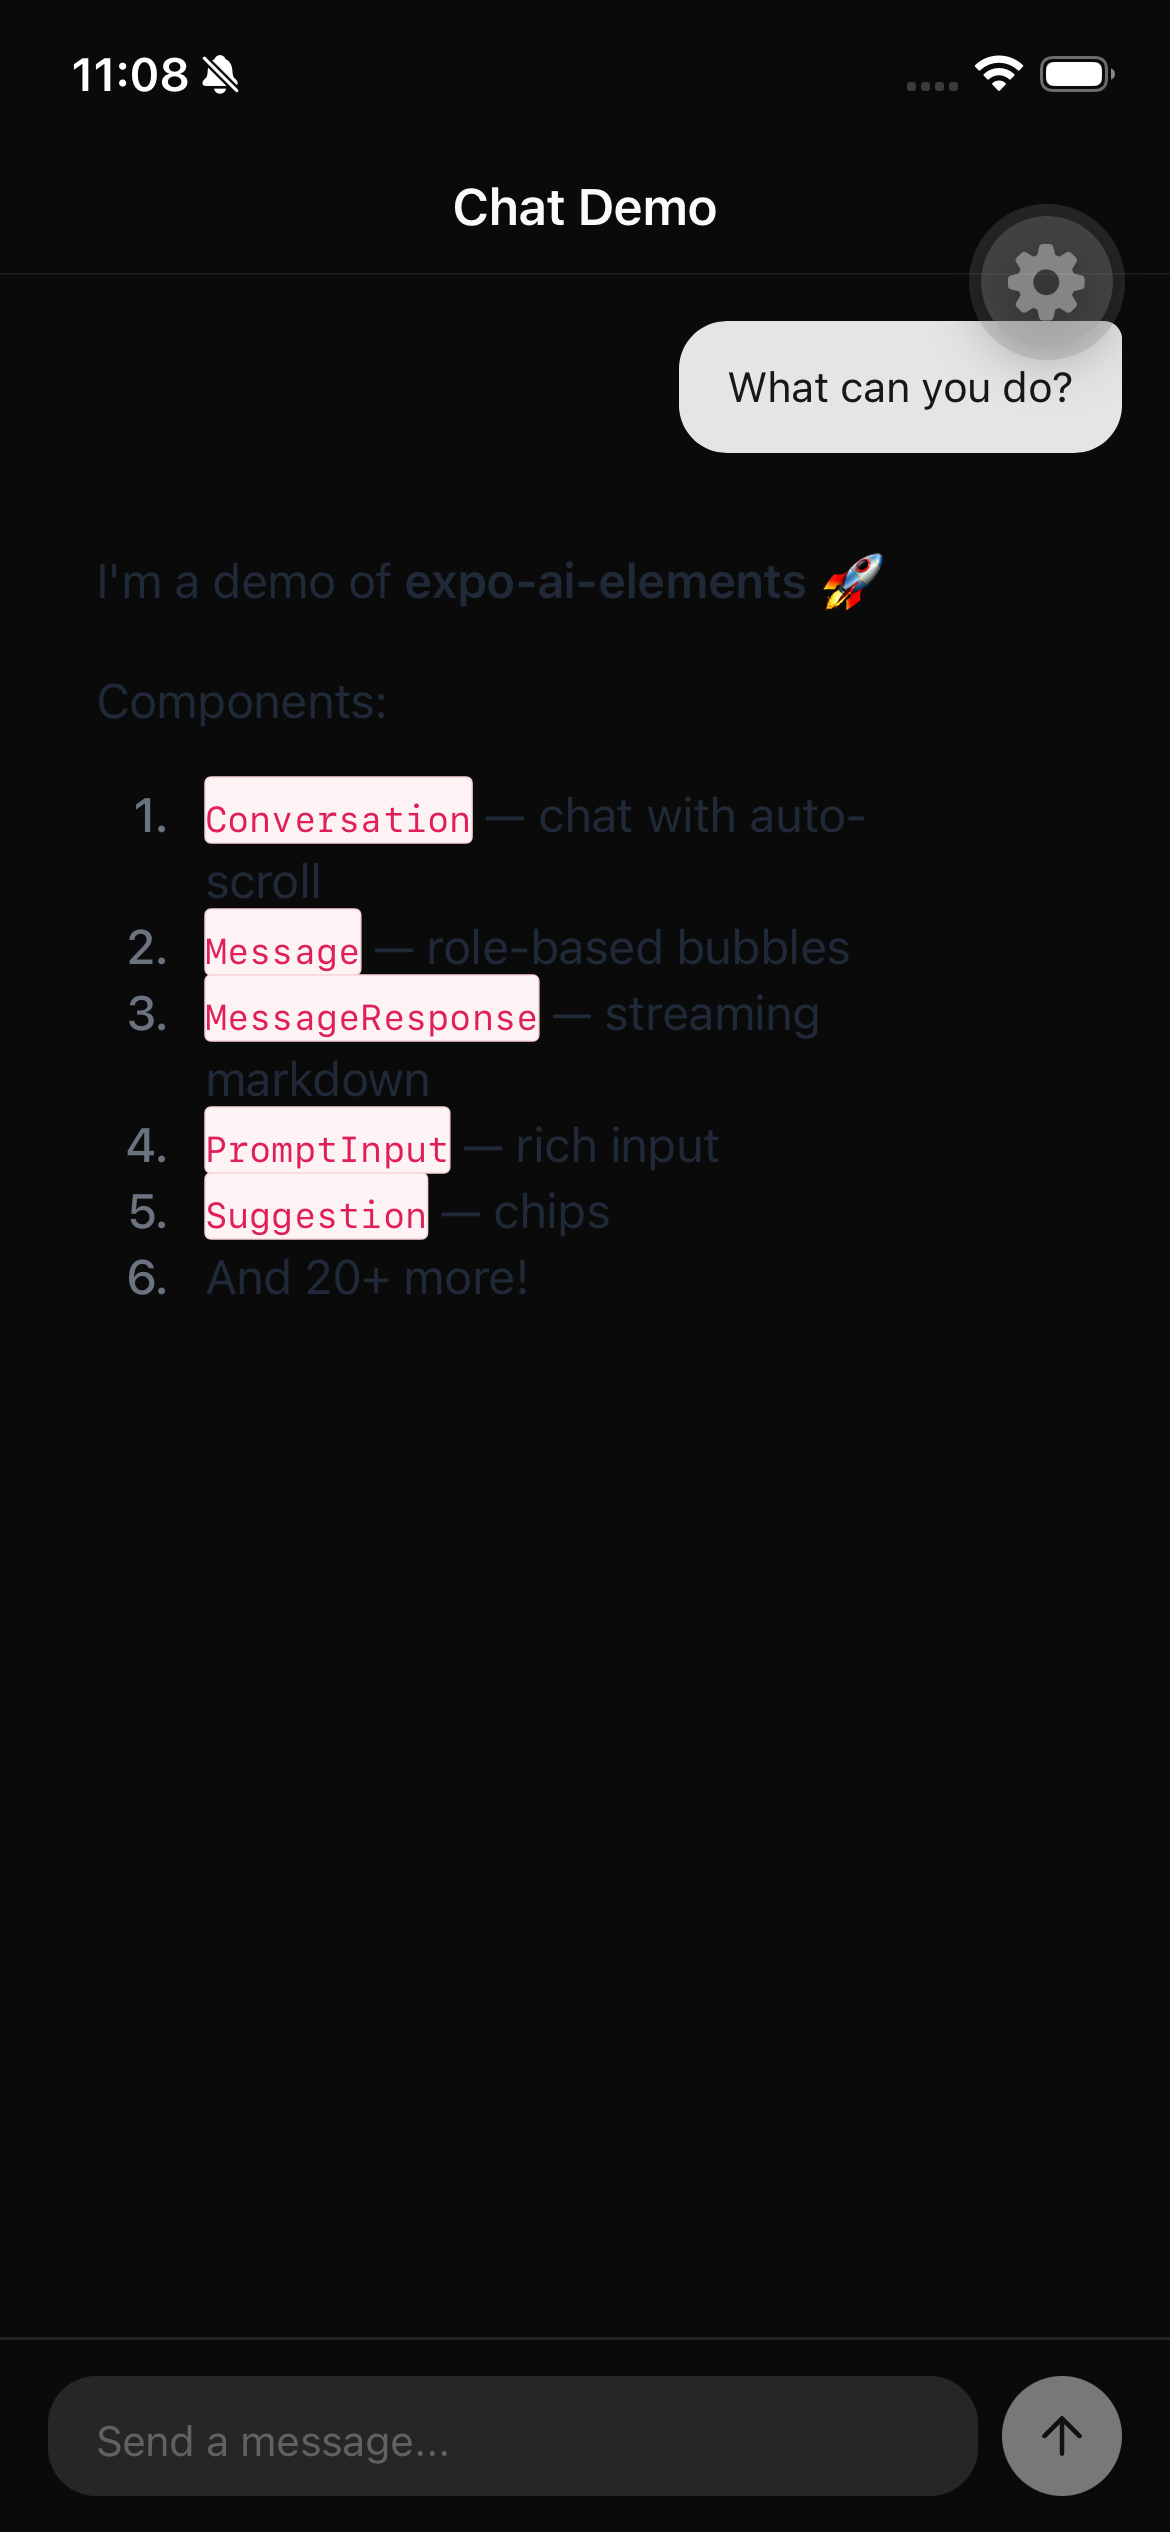
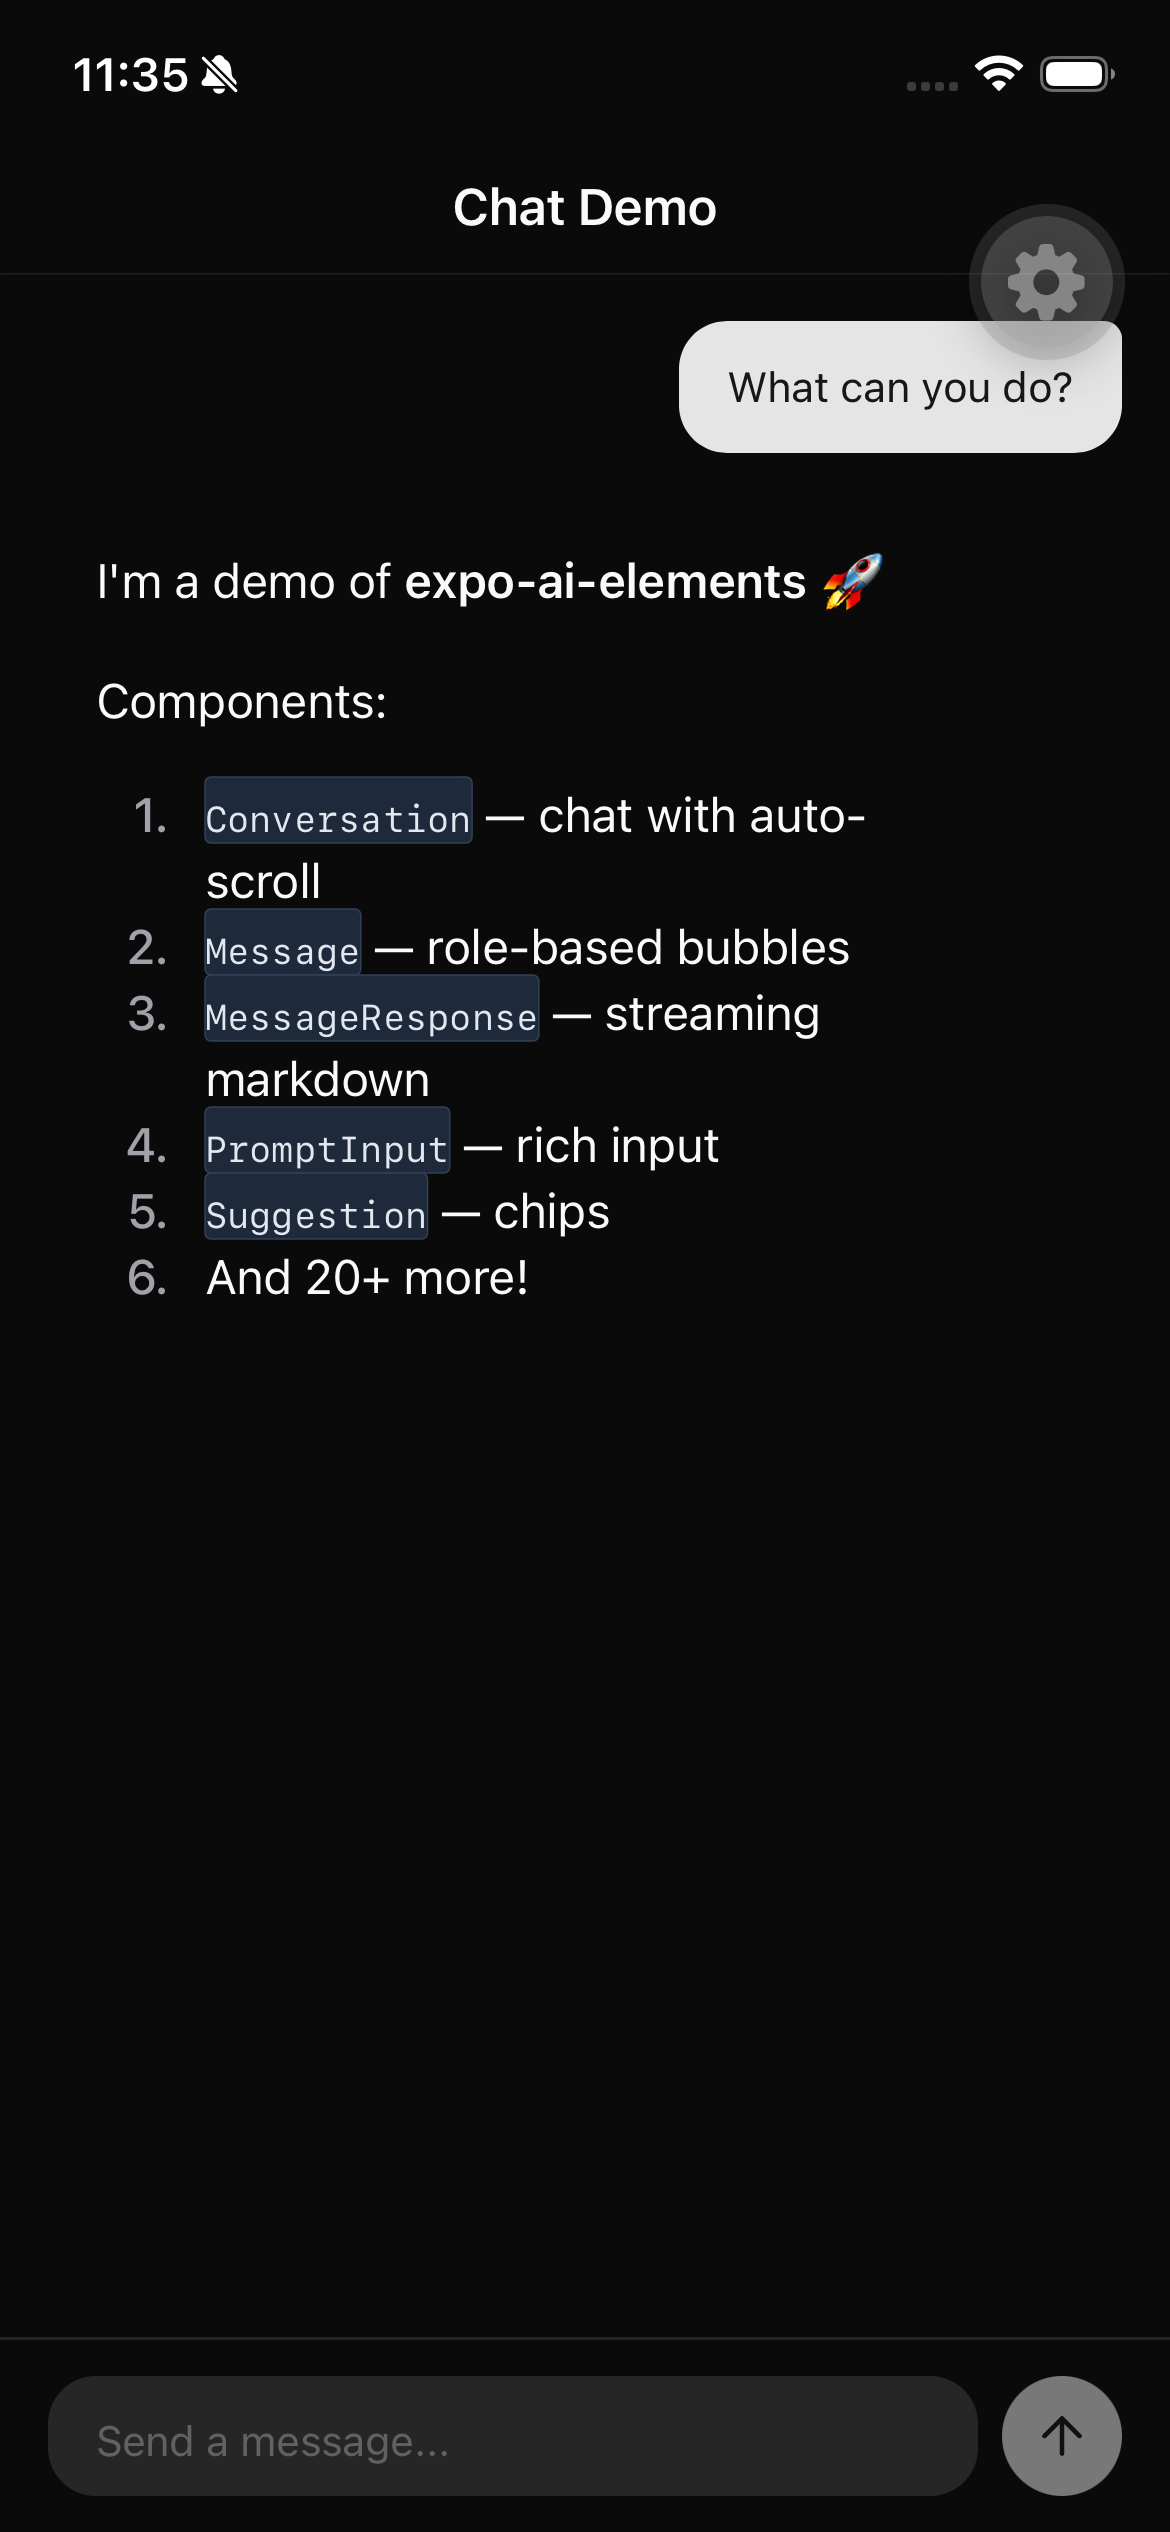
fix: add dark mode colors to MessageResponse markdown rendering
EnrichedMarkdownText was using default light-mode colors, causing
invisible text and jarring inline code highlights in dark mode.
Add markdownStyle prop with proper dark theme colors for paragraphs,
headings, code, math, links, lists, tables, and blockquotes.

Retake chat and LaTeX screenshots with the fixed rendering.

diff --git a/components/ai/message-content.tsx b/components/ai/message-content.tsx
@@ -2,7 +2,39 @@ import { cn } from '@/lib/utils';
 import { Shimmer } from '@/components/ai/shimmer';
 import * as React from 'react';
 import { View } from 'react-native';
-import { EnrichedMarkdownText } from 'react-native-enriched-markdown';
+import {
+  EnrichedMarkdownText,
+  type MarkdownStyle,
+} from 'react-native-enriched-markdown';
+import { useUniwind } from 'uniwind';
+
+const DARK_MARKDOWN_STYLE: MarkdownStyle = {
+  paragraph: { color: '#fafafa' },
+  h1: { color: '#fafafa' },
+  h2: { color: '#fafafa' },
+  h3: { color: '#fafafa' },
+  h4: { color: '#fafafa' },
+  h5: { color: '#fafafa' },
+  h6: { color: '#fafafa' },
+  strong: { color: '#fafafa' },
+  em: { color: '#fafafa' },
+  link: { color: '#93c5fd' },
+  code: { color: '#e2e8f0', backgroundColor: '#1e293b', borderColor: '#334155' },
+  codeBlock: { color: '#e2e8f0', backgroundColor: '#0f172a', borderColor: '#1e293b' },
+  blockquote: { color: '#a1a1aa', borderColor: '#3f3f46' },
+  list: { color: '#fafafa', bulletColor: '#a1a1aa', markerColor: '#a1a1aa' },
+  math: { color: '#fafafa', backgroundColor: '#18181b' },
+  inlineMath: { color: '#fafafa' },
+  thematicBreak: { color: '#3f3f46' },
+  table: {
+    color: '#fafafa',
+    borderColor: '#3f3f46',
+    headerBackgroundColor: '#1e293b',
+    headerTextColor: '#fafafa',
+    rowEvenBackgroundColor: '#18181b',
+    rowOddBackgroundColor: '#0f172a',
+  },
+};
 
 type MessageResponseProps = {
   children: string;
@@ -12,6 +44,7 @@ type MessageResponseProps = {
 
 const MessageResponse = React.memo(
   function MessageResponse({ children, isStreaming, className }: MessageResponseProps) {
+    const { theme } = useUniwind();
     // Throttle updates during streaming to reduce layout jumps.
     // EnrichedMarkdownText recalculates native layout on every prop change.
     // Buffering to ~80ms intervals cuts re-renders significantly.
@@ -29,7 +62,11 @@ const MessageResponse = React.memo(
     return (
       <View className={cn('flex-1', className)} collapsable={false}>
         {displayText.length > 0 ? (
-          <EnrichedMarkdownText markdown={displayText} flavor="github" />
+          <EnrichedMarkdownText
+            markdown={displayText}
+            flavor="github"
+            markdownStyle={theme === 'dark' ? DARK_MARKDOWN_STYLE : undefined}
+          />
         ) : isStreaming ? (
           <Shimmer>Thinking...</Shimmer>
         ) : null}
